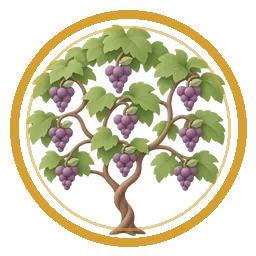
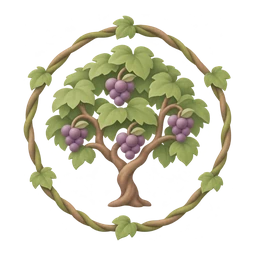
포도원 한 바퀴 배지 그림 (gbs#745, 캐시 v200)
Claude-Session: https://claude.ai/code/session_0164q8wPR3H6Avys77kvhA54

diff --git a/note/sw.js b/note/sw.js
@@ -5,7 +5,7 @@
  * 아래 CACHE 번호는 남겨 둔 사본의 이름표다. 번호를 올리면 예전 사본을 지운다(AGENTS.md 서비스워커 캐시).
  * 데모에는 서버가 없다. 같은 주소의 파일만 다루고, 글꼴 같은 다른 주소의 요청은 건드리지 않는다.
  */
-const CACHE = 'didako-note-v199';
+const CACHE = 'didako-note-v200';
 const SHELL = ['./', 'index.html', 'config.js', 'widget-bridge.js', 'splash.js', 'practice.js', 'family-tokens.css', 'design-styles.css', 'info-tip.js', 'font-warm.js', 'family-tap.js', 'family-push.js', 'family-vault.js', 'account-delete.js', 'guide.js', 'guide.css', 'usage.js', 'demo-data.js', 'questions-data.js', 'places.js', 'walks-data.js', 'map.html', 'map-places.js', 'words-ko.js', 'vendor/tiptap-2.27.3.js', 'manifest.webmanifest', 'icons/icon-192.png', 'icons/icon-512.png', 'icons/icon-maskable-512.png', 'icons/apple-touch-icon.png', 'icons/favicon-32.png'];
 // 나의 배지 그림은 처음 열 때 한꺼번에 받느라 늦게 떴다. 앱을 받을 때 함께 받아 둔다(S-60). 하나를 못 받아도 설치는 계속한다
 const PRE_IMG = ['a-home', 'a-style', 'a-sync', 'f-first', 'm-map', 'm-year', 'q-first', 'q-found', 't-hold', 'walk-first', 'x-first'].map(k => `img/badges/${k}.webp`)
